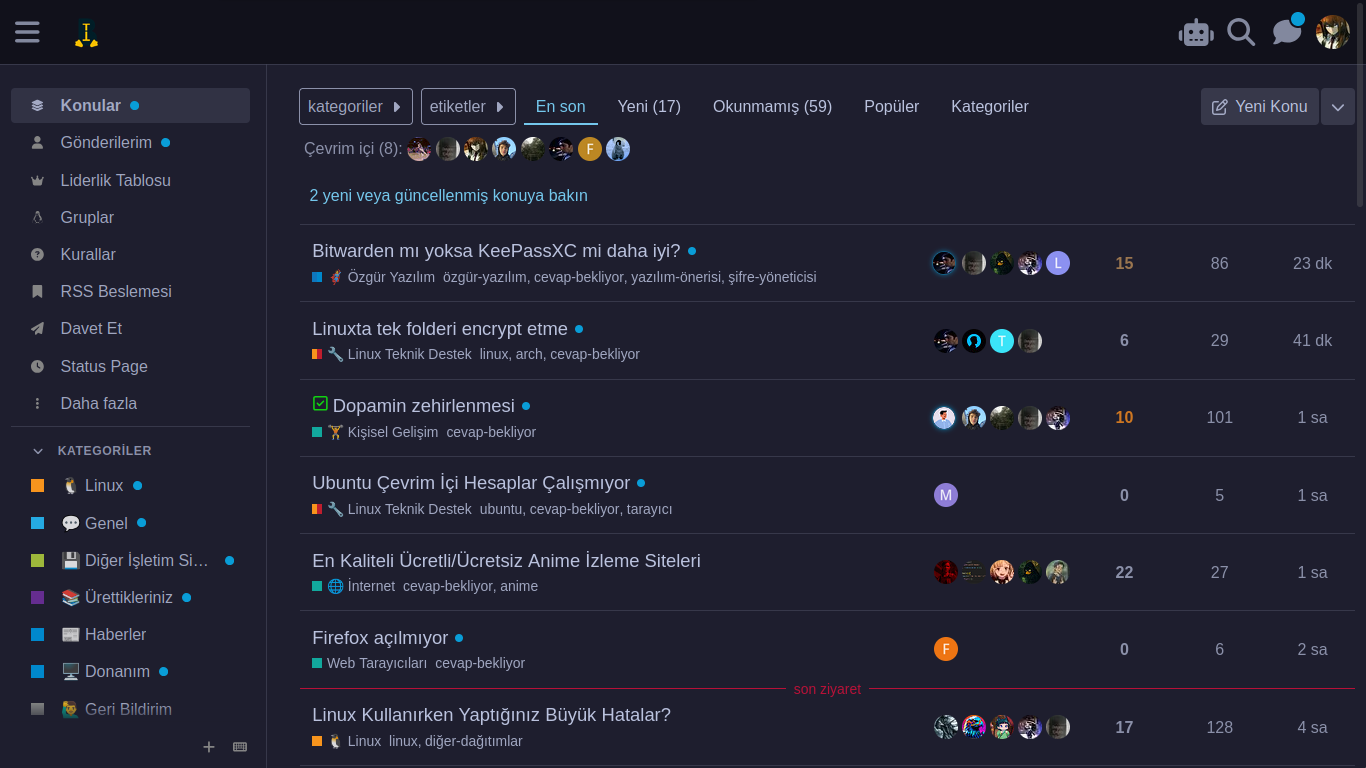
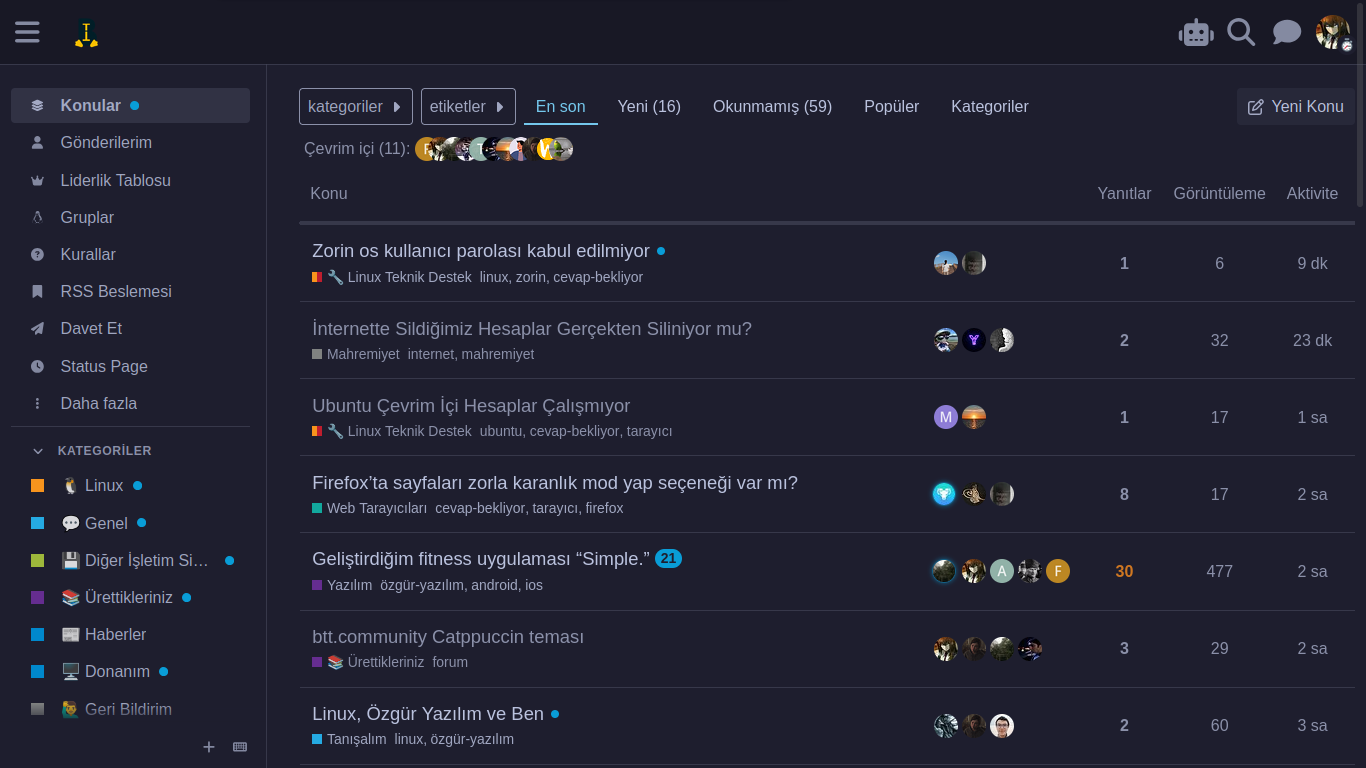
preview

diff --git a/README.md b/README.md
@@ -4,13 +4,16 @@ Bu repoda, btt.community forum için hazırladığım [Catppuccin](https://catpp
 
 ---
 
-## Öncesi & Sonrası
+## Önizleme
 
-**Öncesi:**  
-![Öncesi](assets/normal.png)
-
-**Sonrası:**  
-![Sonrası](assets/mocha.png)
+<details>
+<summary>🌻 Light Mode</summary>
+<img src="assets/latte.png"/>
+</details>
+<details>
+<summary>🌿 Dark Mode</summary>
+<img src="assets/mocha.png"/>
+</details>
 
 ---
 
